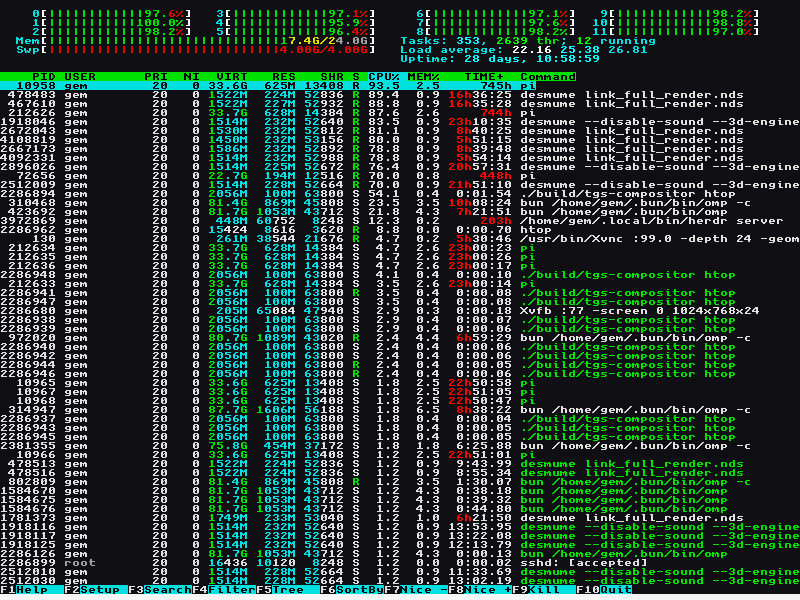
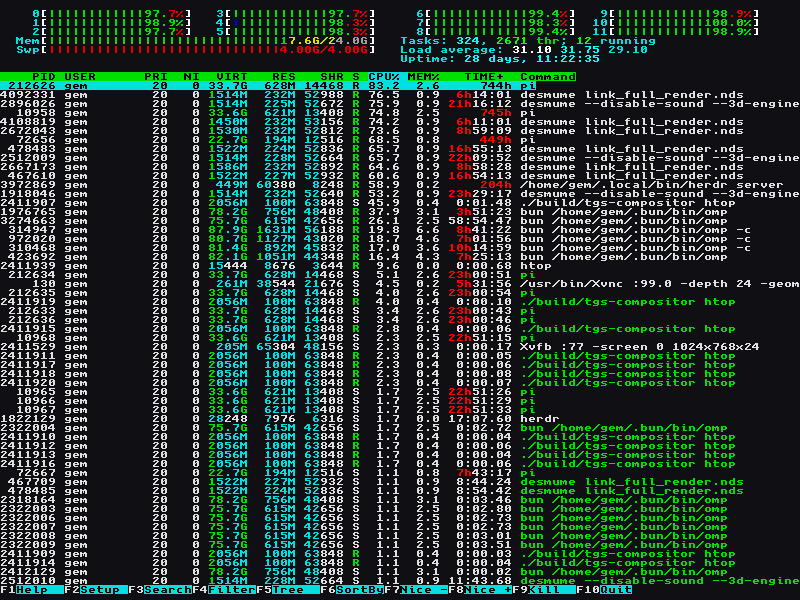
fix: the margin a whole cell count leaves belongs to the terminal
The canvas is cols x rows cells and a window is rarely an exact multiple of that,
so the last few pixels fell outside the canvas and the LVGL theme's background
showed through — a bright band under the last row of an otherwise dark terminal.
The active screen now carries the terminal's own background colour.

Verified: the htop window's colour histogram no longer contains the theme's
#F5F5F5, and a vision check of the full screen reports no band, no overlap or
vertical clipping, meter bars column-aligned, and no differently-coloured
margin. 37/37 tests pass.

diff --git a/src/backends/lvgl/lvgl_term.c b/src/backends/lvgl/lvgl_term.c
@@ -235,6 +235,15 @@ lv_obj_t *tgs_term_view_create(int cols, int rows)
     if (!tv->buf) { lv_free(tv); return NULL; }
     memset(tv->buf, 0, (size_t)w * (size_t)h * 4u);
 
+    /* A whole number of cells rarely fills the window, and the margin left over
+     * belongs to the terminal, not to the theme (which would show as a bright
+     * band under the last row). */
+    {
+        lv_obj_t *scr = lv_screen_active();
+        lv_obj_set_style_bg_color(scr, lv_color_hex(DEF_BG & 0x00FFFFFFu), 0);
+        lv_obj_set_style_bg_opa(scr, LV_OPA_COVER, 0);
+    }
+
     canvas = lv_canvas_create(lv_screen_active());
     if (!canvas) { lv_free(tv->buf); lv_free(tv); return NULL; }
 
